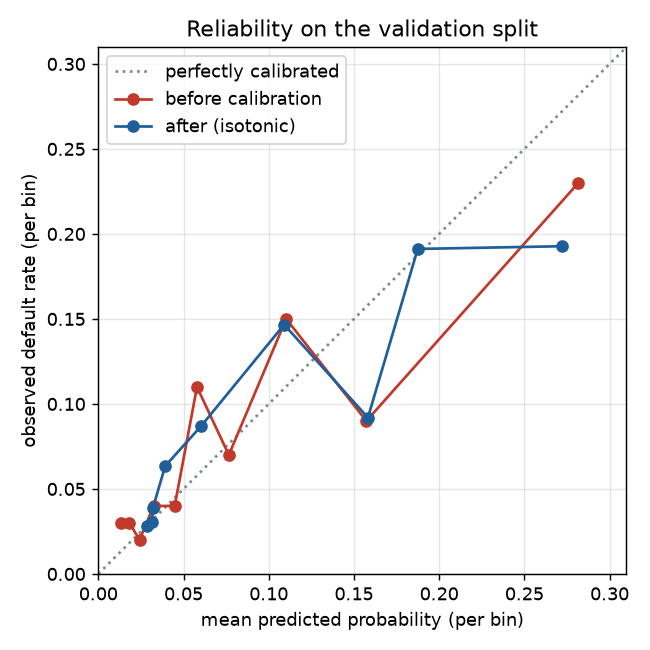
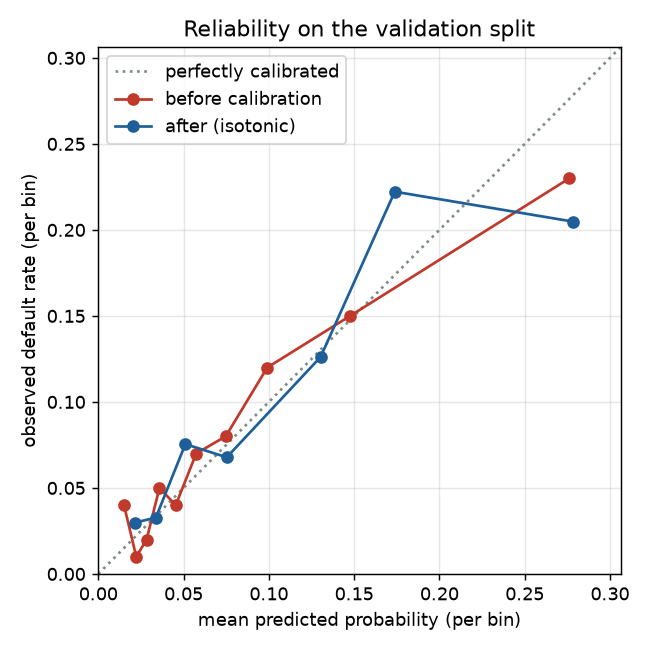
Week 3 final

diff --git a/docs/modeling_report.md b/docs/modeling_report.md
@@ -1,0 +1,106 @@
+# Modeling report (Week 3)
+
+Team: T Triple A
+
+## 1. The production model
+
+Our production model is a `HistGradientBoostingClassifier` using the settings from Optuna
+trial 29, the best of 30 trials: `learning_rate` 0.0102, `max_iter` 450, `max_leaf_nodes` 7,
+`min_samples_leaf` 156, `l2_regularization` 0.0011, and `max_features` 0.367. That trial
+reached a CV AUC of 0.748 on all 164 features.
+
+The model uses 5 features: `EXT_SOURCE_1`, `EXT_SOURCE_2`, `EXT_SOURCE_3`, `DAYS_EMPLOYED`,
+and `OWN_CAR_AGE`. They come from `python run.py prune`, which keeps the fewest features whose
+CV AUC is within one standard deviation of the best count. It is wrapped in isotonic
+calibration and rejects applicants when the score is at or above a threshold of 0.075. It is
+registered as `models:/credit-risk@staging`, version 1.
+
+## 2. Production model against the decision tree
+
+| | Production model | tree_tuned |
+|---|---|---|
+| Validation ROC-AUC [95% CI] | 0.722 [0.662, 0.782] | 0.703 [0.645, 0.756] |
+| CV ROC-AUC (train split) | 0.738 ± 0.020 | 0.697 ± 0.010 |
+| Latency p95, one applicant (ms) | 48.4 | 4.6 |
+| Model size (KB) | 396 | 18 |
+| Features | 5 | 164 |
+| Explainability | 450 small trees: needs a tool such as permutation importance or SHAP, but only 5 inputs to explain | One tree with `max_depth` 5 and `min_samples_leaf` 50: each decision is a short list of rules you can read |
+
+The validation AUC difference (production minus tree) is +0.020, with a paired 95% interval of
+[-0.043, +0.085]. The interval includes 0, so on validation we cannot say the production model
+is better by more than chance. The CV gap of 0.041 is about twice the production model's
+standard deviation, which points the same way but is not proof, and we tuned on those same
+folds.
+
+- **AUC:** the production model is higher on both CV and validation, but the validation
+  difference could be noise.
+- **Speed:** the tree is about 10 times faster. 48 ms is still fast for one loan application,
+  and these timings come from one laptop.
+- **Size:** the tree is about 22 times smaller. 396 KB is still small enough to deploy.
+- **Explainability:** the tree is easier to read. A loan decision may need explaining, so this
+  is the main thing we give up. The production model limits the damage by using only 5 inputs.
+
+We chose the production model because its ranking looks better, and neither its speed nor its
+size is a real problem for this service. This is a judgment call and not a clear win. If the
+lender needed fully readable decisions, `tree_tuned` would be a reasonable choice.
+
+## 3. The decision threshold
+
+The threshold is 0.075. It comes from our Week 1 costs: approving someone who defaults costs
+10, and rejecting someone who would have repaid costs 1. A missed default is 10 times worse, so
+the cheapest rule rejects at a score far below 0.5. If the scores are true probabilities, theory
+says to reject at about 1 / (1 + 10) = 0.09, and our threshold is close to that.
+
+It was chosen on calibrated out-of-fold scores from the train split, where each applicant is
+scored by a model that never saw them. We did not use the validation split because choosing on
+those 1,000 applicants would fit the threshold to them and make the validation cost look better
+than it will be on real applicants.
+
+| Rule | Validation cost per applicant |
+|---|---|
+| Our threshold (0.075) | 0.576 |
+| Threshold 0.5 | 0.810 |
+| Approve everyone | 0.810 |
+
+Our threshold saves 0.234 per applicant, about 29% compared with approving everyone. Scoring at
+0.5 costs the same as approving everyone (to three decimals), so it adds nothing here. The cost
+is that it rejects 39.3% of validation applicants, even though only 8.1% of them default.
+
+`reports/threshold.json` shows a different number, 0.090, because it describes the uncalibrated
+model on all 164 features. That model had a validation cost of 0.528 and rejected 26.8%, so the
+5-feature list may carry a real cost. We report this but did not choose by it, because
+validation is not used for choosing.
+
+## 4. Calibration
+
+We used isotonic calibration, learned on out-of-fold scores. On the validation split the Brier
+score moved from 0.0703 to 0.0700, and the mean predicted probability moved from 0.080 to 0.081
+against a true default rate of 0.081.
+
+The reliability plot (`reports/figures/reliability.png`) shows that the model was already close
+to the diagonal before calibration, because it trains on the real default rate with no
+undersampling. After calibration, the points stay close to the diagonal at low scores. The top
+two bins are still noisy: about 0.17 predicted against 0.22 observed, and about 0.28 predicted
+against 0.20 observed. With only 81 validation defaults, those bins do not hold many.
+
+Calibration barely helped this model, and the improvement is too small to treat as real. We
+keep it because the threshold depends on it: the cost rule treats a score as a probability, so
+0.075 only means "a 7.5% chance of default" if the scores are calibrated.
+
+## 5. Limitations and risks
+
+- **Small validation set:** it has only 81 defaults. The AUC intervals are about 0.12 wide, which
+  is much larger than the differences between our models.
+- **Choices made on the same train split:** the 30 Optuna trials, the feature list, and the
+  threshold all used the same 4,000 applicants, so our CV numbers are likely a little optimistic.
+  The feature list also came from an earlier prune run and was not repeated with trial 29's
+  settings.
+- **Costs leave things out:** the 10 and 1 are simplified costs. They ignore loan size, review
+  capacity, and what a 39.3% rejection rate would do to the business. A different ratio moves
+  the threshold.
+- **Sensitive features and proxies:** the model does not use `CODE_GENDER` or `DAYS_BIRTH`
+  directly, but that does not make it fair. `DAYS_EMPLOYED` can track age, `OWN_CAR_AGE` can track
+  wealth, and the `EXT_SOURCE` scores come from outside sources we cannot inspect and may carry
+  their own biases. We have not yet measured error rates across gender and age groups.
+- **Heavy reliance on external scores:** three of the five features are `EXT_SOURCE` scores. If
+  those sources change or become unavailable, the model could degrade quickly.

diff --git a/docs/experiment_notes.md b/docs/experiment_notes.md
@@ -15,10 +15,9 @@ boosting variation must appear here **by its run name**.
 
 | Run | What changed from hgb_default | CV AUC ± std | Train AUC | Valid AUC [95% CI] |
 |---|---|---:|---:|---:|
-| baseline_lr | Logistic regression (Week 1 pipeline) | 0.7227 ± 0.0319 | 0.8455 | 0.7273 [0.6658, 0.7831] |
-| tree_unlimited | Decision tree, no limits | 0.5401 ± 0.0212 | 1.0000 | 0.5389 [0.4980, 0.5815] |
+| baseline_lr | Logistic regression (Week 1 pipeline) | 0.7232 ± 0.0320 | 0.8455 | 0.7273 [0.6658, 0.7831] |
+| tree_unlimited | Decision tree, no limits | 0.5389 ± 0.0235 | 1.0000 | 0.5574 [0.5139, 0.6045] |
 | tree_tuned | Best decision tree from grid: max_depth=5, min_samples_leaf=50 | 0.6965 ± 0.0095 | 0.7824 | 0.7026 [0.6450, 0.7558] |
-| dt_balanced | Decision tree with class_weight=balanced | 0.5483 ± 0.0224 | 1.0000 | 0.5438 [0.5046, 0.5851] |
 | hgb_default | Nothing (default histogram gradient boosting) | 0.7251 ± 0.0390 | 1.0000 | 0.6968 [0.6358, 0.7597] |
 | hgb_balanced | Used class_weight=balanced | 0.7125 ± 0.0446 | 1.0000 | 0.7262 [0.6656, 0.7826] |
 | hgb_undersample | Undersampled the majority class (undersample=3) | 0.7217 ± 0.0245 | 0.9987 | 0.7550 [0.6973, 0.8089] |
@@ -28,7 +27,7 @@ boosting variation must appear here **by its run name**.
 
 ## Overfitting
 
-tree_unlimited has a perfect training AUC of 1.0000 but a CV AUC of only 0.5401,
+tree_unlimited has a perfect training AUC of 1.0000 but a CV AUC of only 0.5389,
 showing severe overfitting and poor generalization. The grid-selected tree_tuned has a
 smaller train-to-CV gap (0.7824 versus 0.6965) and selected max_depth=5 and
 min_samples_leaf=50.
@@ -42,7 +41,7 @@ the default. hgb_undersample had the highest validation AUC (0.7550), but its CV
 was 0.0034 below the default, so the validation result alone is not enough to establish
 a repeatable improvement. hgb_balanced and hgb_lr003 had lower CV AUCs than the
 default, but the differences (0.0126 and 0.0139) are still smaller than the reported
-fold-to-fold standard deviations. The dt_balanced and tree_unlimited models performed
+fold-to-fold standard deviations. The tree_unlimited model performed
 poorly, while the tuned tree generalized better but remained below the boosting and
 logistic-regression CV results. A useful next step would be repeated stratified
 cross-validation with additional seeds to determine whether the small differences persist.
